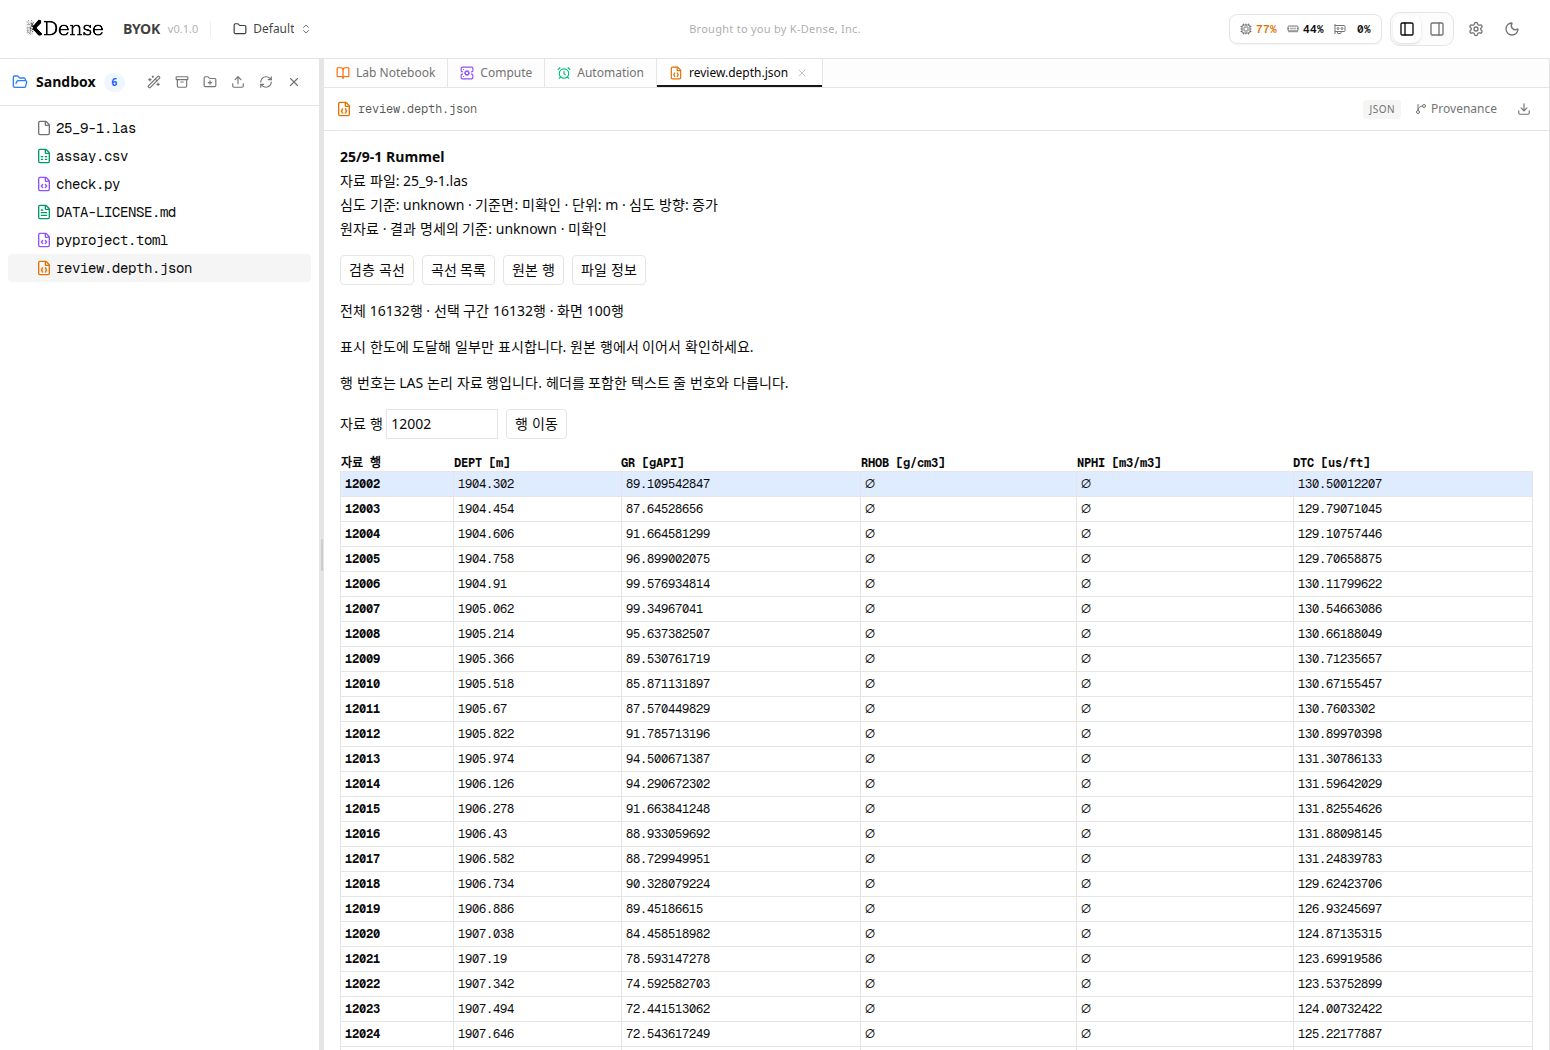
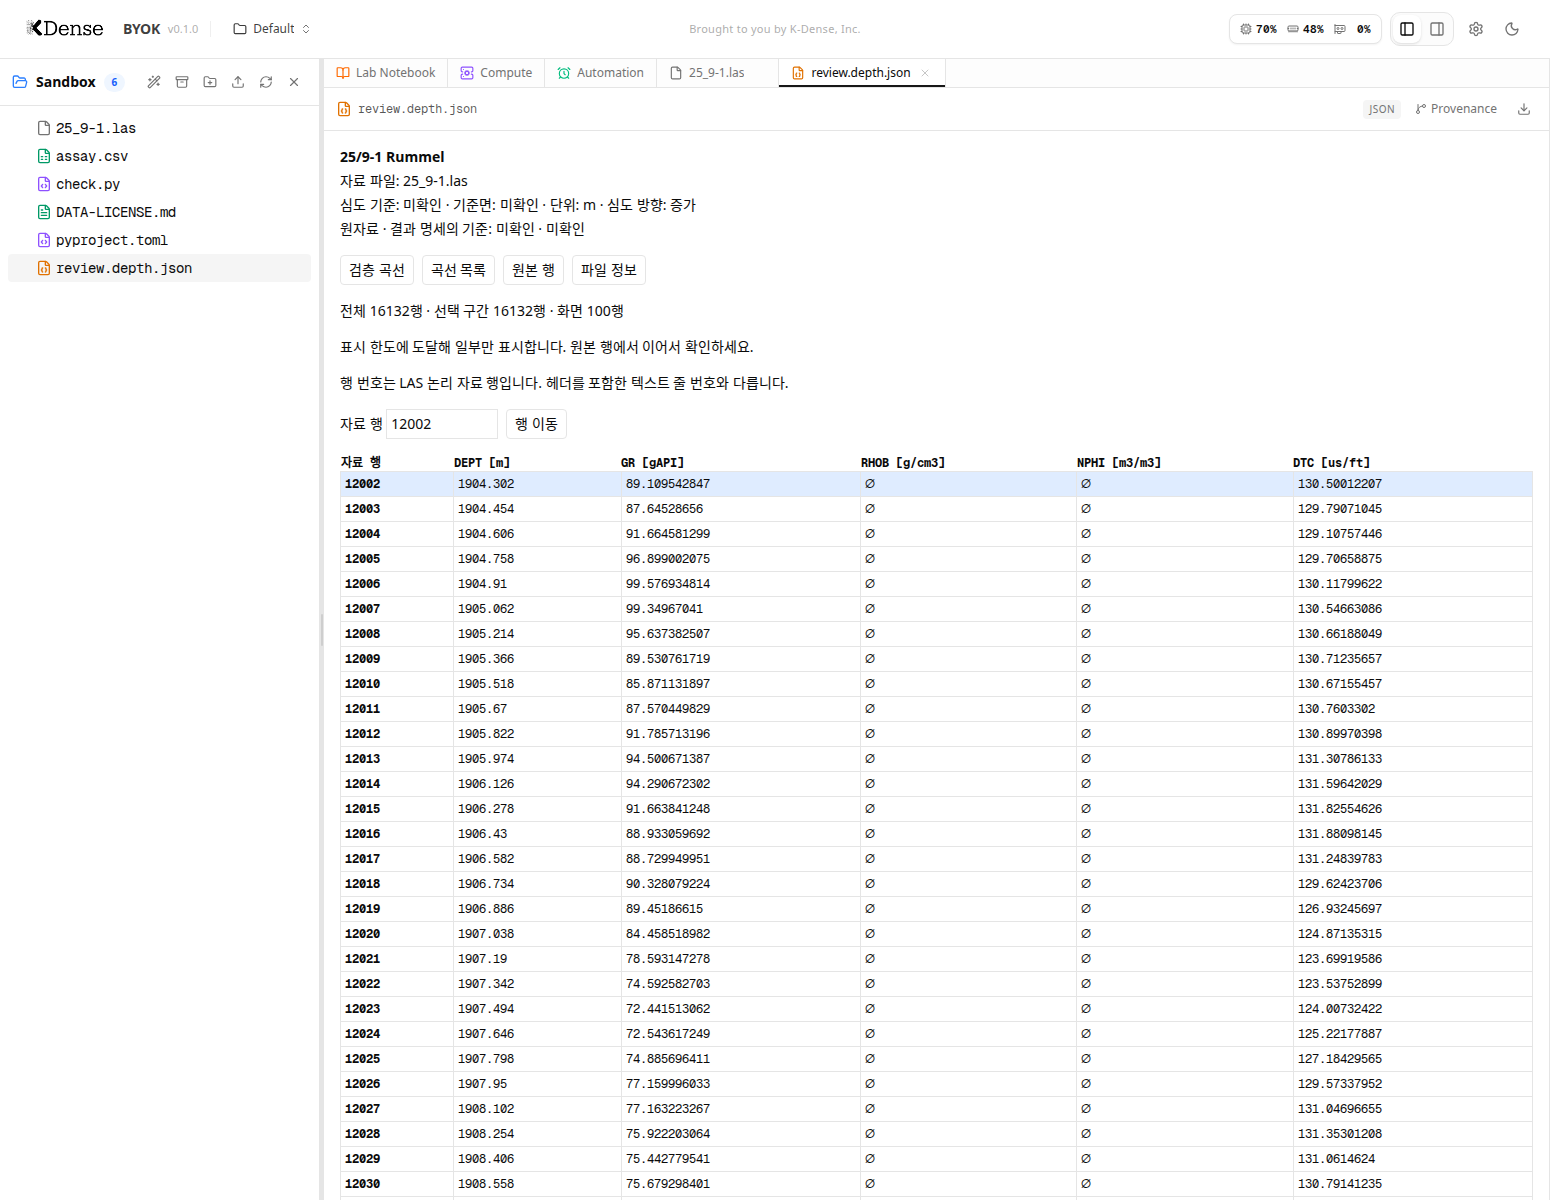
Finalize verified well and table results and correct typed fixture

diff --git a/web/src/geo/viewers/depth/viewer.test.tsx b/web/src/geo/viewers/depth/viewer.test.tsx
@@ -5,7 +5,7 @@ import { curvePath, singletonSamples, DepthTracks, FLAG_STYLE } from "./tracks";
 import type { DepthWindow } from "../../contracts/depth";
 import { apiFetch } from "@/lib/projects";
 vi.mock("@/lib/projects", () => ({ apiFetch: vi.fn(), API_BASE: "", getActiveProjectId: () => "default" }));
-const data = { schemaVersion: "geo-series/v1", path: "well.las", well: "Test", run: "1", version: "2.0", nullValue: -999.25, depth: { mnemonic: "DEPT", unit: "M", basis: "unknown", direction: "increasing" }, curves: [{ column: 0, mnemonic: "DEPT", originalMnemonic: "DEPT", unit: "M", finiteCount: 2, nullCount: 0 }, { column: 1, mnemonic: "GR", originalMnemonic: "GR", unit: "API", finiteCount: 1, nullCount: 1 }], selectedColumns: [1], sourceRows: 2, matchedRows: 2, displayedRows: 2, sampled: false, truncated: false, rows: [{ row: 1, depth: 100, values: [0], breakBefore: true }, { row: 2, depth: 101, values: [null], breakBefore: false }], nextRow: null, issues: [], method: "exact" };
+const data: DepthWindow = { fingerprint: "fixture", wrapped: false, schemaVersion: "geo-series/v1", path: "well.las", well: "Test", run: "1", version: "2.0", nullValue: -999.25, depth: { column: 0, mnemonic: "DEPT", unit: "M", basis: "unknown", direction: "increasing" }, curves: [{ column: 0, mnemonic: "DEPT", originalMnemonic: "DEPT", unit: "M", description: "Index", min: 100, max: 101, finiteCount: 2, nullCount: 0 }, { column: 1, mnemonic: "GR", originalMnemonic: "GR", unit: "API", description: "Gamma ray", min: 0, max: 0, finiteCount: 1, nullCount: 1 }], selectedColumns: [1], sourceRows: 2, matchedRows: 2, displayedRows: 2, sampled: false, truncated: false, rows: [{ row: 1, depth: 100, values: [0], breakBefore: true }, { row: 2, depth: 101, values: [null], breakBefore: false }], nextRow: null, issues: [], method: "exact" };
 beforeEach(() => vi.mocked(apiFetch).mockReset());
 const response = (body: unknown) => ({ ok: true, json: async () => body }) as Response;
 describe("LAS depth viewer", () => {
@@ -17,7 +17,7 @@ describe("LAS depth viewer", () => {
     const rows = [{ row: 1, depth: 100, values: [null], breakBefore: true }, { row: 2, depth: 101, values: [999], breakBefore: false }, { row: 3, depth: 102, values: [null], breakBefore: false }];
     expect(singletonSamples(rows, 0).map(r => r.row)).toEqual([2]);
     const onRow = vi.fn();
-    render(<DepthTracks data={{ ...data, rows } as DepthWindow} flags={[]} onRow={onRow} />);
+    render(<DepthTracks data={{ ...data, rows }} flags={[]} onRow={onRow} />);
     fireEvent.click(screen.getByTestId("singleton-1-2"));
     expect(onRow).toHaveBeenCalledWith(2);
   });

diff --git a/docs/tasks/gaid-well-tables.md b/docs/tasks/gaid-well-tables.md
@@ -1,7 +1,7 @@
 ---
 format: 1
 status: active
-updated: 2026-10-11T05:32:39Z
+updated: 2026-10-11T05:47:21Z
[1 lines of base64/hex data omitted]
 branch: task/gaid-well-tables
 target: main
@@ -44,14 +44,16 @@ Verified facts from the hub (2026-10-11):
 - Focused LAS checks: `node --test geo/tests/well.test.mjs` passed (9 Python known-answer cases); backend depth 4 tests after shared-header-basis check, frontend depth 5 tests after reader fixes, backend/frontend typechecks passed. Shared header-basis reuse was then added and the depth API tests passed again.
 - FORCE concordance: 4,841,277-byte source, 16,132 LAS rows; 15,743 uniquely matched reference rows, seven curves exact values and null masks (max difference 0, no null-mask disagreements). Header STOP discrepancy 0.1128047 m is preserved. Output checks/force-concordance.json under external task work.
 - Real Chromium application check: opened FORCE LAS without bulk text fetch; applied 1800–2400 m window; manifest spike link reached logical row 12002 with project-scoped data/code links. Korean screenshots external under task checks, copied into canonical report figures. Constructed flags test UI only, not scientific QC.
-- Pending parent glue/docs/reader fixes are intentionally still local (git diff/status). Do not lose them or publish during the child’s final check: that would make the child integrate another parent tip and repeat full checks. Once child ready is actually published, save these reviewed paths, then task complete the child and verify the combined tree. The prepared table-option imports become resolvable when the child is integrated.
-- Table child gaid-well-tables--tables (writer 8b4d426a-82dc-444e-9347-60354a8ffce4) has delivered its package and is running the final serial whole check (task finish, VITEST_MAX_WORKERS=1; started about 2026-10-11 05:19 UTC). Earlier failures and environment correction are recorded in the child document. Its local status ready is written before checks and is not published completion; wait for the actual completion notice/remote ready. Parent optional table UI wrapper/routes/docs are prepared but not yet verified together. Do not alter child-owned files until completion/integration.
+- Table child is published ready and merged locally through 3bdaf71; current application snapshot ebbe2e0 includes its 13 focused tests. First `task complete` combined check passed backend 1,593 tests (11 skipped), frontend 905 tests, geo/environment checks, but production build found missing fields in a new parent test fixture. Fixed by giving it the full DepthWindow type and fields, not by an unsafe cast.
+- After that fix: `cd web && npx tsc --noEmit --incremental false` passed; depth/table-option 7 UI tests passed; `node geo/tests/production-smoke.mjs` passed start/stop/restart in a clean data home. Final source/report snapshot is ready for the required CLI check retry.
+- Combined real-browser smoke passed: explicit table overlay/suggestions, expected overlap/gap, `<0.01` retained, original file bytes unchanged, return to ordinary table; LAS depth-window and exact row 12002/source/code links rechecked. Current Korean screenshots and all four registered output hashes verified.
 - Direct checks authorized by hub/user ("제안대로 하자.") while .env.example snapshot policy is fixed. Routed request env-sample-jobs-gaid-well-tables consumed and reported. No paid model runs.
 ## Next steps
-1. On the child completion notice, reread this document and git status, then complete/integrate the table child once ready; save prepared parent glue before integration, then run integrated focused/API/UI/type checks and a table browser smoke.
-2. Use VITEST_MAX_WORKERS=1 for final whole checks. A global value of 4 overrides backend fileParallelism=false normalization and causes shared-test-root races; child rejected that verification and restarted with 1. No assertions/deadlines/tests are changed. Finalize canonical report evidence, run final task finish checks, remove regenerable build caches after the last check, and wait for the hub completion report. Final main integration/cleanup are not yet done for the full LAS+tables scope.
+1. Save final report/fixture correction and rerun `VITEST_MAX_WORKERS=1 task complete gaid-well-tables--tables`. Do not resume/restart the child: it is already ready; fix the current parent in place. This runs the final checked integration.
+2. After child completion, update only this task document with the full-check receipt, run `VITEST_MAX_WORKERS=1 task finish`, remove listed regenerable caches after the last check, and give the hub's final completion report once. No deployment or model qualification is in scope.
 ## Failed approaches
-- 2026-10-11: first task job run (dependency install + focused type/numerical/API/UI checks) failed before receipt creation: "job snapshot blocked: forbidden path .env.example". The inherited path was not read or changed. task/jobs.py validates all ls-tree paths before git archive (even export-ignore cannot resolve it). Do not bypass task CLI with manual long-running jobs. Hub needs to resolve the tool/project compatibility. No tests have run.
+- First parent `task complete` failed only at production TypeScript checking because the new singleton UI test fixture omitted fingerprint/wrapped and curve metadata. Fixed the fixture to match the contract; frontend typecheck, 7 affected UI tests and standalone production smoke then passed. Original full check evidence: /home/seongin3/.local/state/backbone/check-logs/beb99bb9d216ecd9/check-w3bfbkvw.log.
+- 2026-10-11: first task job run (dependency install + focused type/numerical/API/UI checks) failed before receipt creation: "job snapshot blocked: forbidden path .env.example". The inherited path was not read or changed. task/jobs.py validates all ls-tree paths before git archive (even export-ignore cannot resolve it). Do not bypass task CLI with manual long-running jobs. At that point no tests had run. Hub subsequently authorized direct checks; current results are above.
 - Focused command after unblock: task job run -- bash -lc 'set -e; npm --prefix server ci --no-audit --no-fund; npm --prefix web ci --no-audit --no-fund; uv sync --frozen --project server/src/helpers --python 3.12.14 --python-preference only-managed; npm --prefix server run typecheck; cd web; npx tsc --noEmit; npm test -- src/geo/viewers/depth/viewer.test.tsx; cd ../server; npx vitest run test/geo-depth.test.ts; cd ..; node --test geo/tests/well.test.mjs'
 
 ## Notes and decisions

diff --git a/reports/2026-10-11-gaid-well-tables/index.md b/reports/2026-10-11-gaid-well-tables/index.md
@@ -47,11 +47,21 @@ supersedes:
 | 실제 헤더 불일치 | 마지막 심도와 헤더의 차이 0.1128047 m를 그대로 보고합니다. |
 | 원본 행 연결 | 검토 표시를 눌러 12,002번째 논리 자료 행으로 이동했습니다. 시험용 표시는 과학적 QC 결과가 아닙니다. |
 
+![검토 표시에서 이동한 정확한 원본 행](figures/02-source-row.png)
+
+그림 2. 시험용 급변 표시에서 12,002번째 자료 행으로 이동했습니다. 볼 것: 원본 행 번호와 원래 단위의 값입니다. 이 표시는 화면 연결 시험을 위해 만든 것이며, 실제 과학적 이상을 판정한 결과가 아닙니다. 검층 자료 출처와 권리는 그림 1과 같습니다.
+
+![시추공 표의 구간 점검](figures/03-table.png)
+
+그림 3. 합성 표에서 구간 중복 1건과 공백 1건을 찾았습니다. 볼 것: 원본 행 위치와 그대로 남긴 검출한계 미만 값입니다. 점검 전후 원본 파일의 바이트가 같음을 확인했습니다.
+
 ## 4. 검증
 
 - 과학적 수치 확인: 같은 제공자의 두 내보내기를 대응시켰습니다. 독립 측정의 진실성이나 지질 해석을 입증한 것은 아닙니다.
 - 수치 회귀검사: NULL과 0 구분, 줄바꿈 자료, 중복·누락·역전 심도, 미확인 단위, 극값·결측 경계 보존과 표시 한도를 확인했습니다.
-- 소프트웨어·통합 검사: 최종 검사 결과 기록 전입니다.
+- 백엔드 회귀검사: 1,593개 통과, 11개 건너뜀입니다. 이 중 2개는 기관 네트워크에서 어휘 자료를 받지 못하는 기존 시험입니다. 시험을 건너뛴 것을 통과로 세지 않았습니다.
+- 프런트엔드 회귀검사: 905개가 통과했습니다. 이후 배포용 빌드에서 발견한 시험 자료의 타입 누락을 수정했고, 타입 검사와 관련 화면 시험 7개가 다시 통과했습니다.
+- 실제 브라우저: 검층 열기, 심도 범위 선택, 원본 행 이동, 표 역할 지정과 구간 점검, 일반 표로 돌아가기, 원본 바이트 보존을 확인했습니다. 새 데이터 공간에서 배포용 앱을 시작·종료·재시작하는 검사도 통과했습니다.
 
 ## 5. 한계
 
@@ -68,10 +78,11 @@ supersedes:
 
 ## 7. 대체되었거나 실패한 시도
 
-<details><summary>펼치기 — 3건</summary>
+<details><summary>펼치기 — 4건</summary>
 
 - 처음 사용한 파서가 심도 열의 NULL을 값으로 남기고 일부 줄바꿈 자료를 잘못 나눴습니다. 헤더에 선언된 열 수로 자료를 읽도록 수정하고 회귀검사로 확인했습니다.
 - 화면 점검에서 결측 사이의 단일 값이 보이지 않는 문제와 잘못된 심도 범위를 바로 수정하지 못하는 문제를 찾았습니다. 단일 값을 점으로 표시하고 입력 단계에서 범위를 확인하도록 수정했습니다.
+- 배포용 빌드의 타입 검사에서 새 시험 자료에 필드가 빠진 것을 찾았습니다. 실제 계약에 맞게 필드를 채웠고, 느슨한 타입 변환으로 우회하지 않았습니다.
 - 검사 스냅샷 도구가 기존 환경설정 예시 파일 때문에 중단됐습니다. 사용자가 승인한 임시 절차에 따라 작업 경로에서 직접 검사했습니다. 해당 예시 파일은 변경하지 않았습니다.
 
 </details>
@@ -80,6 +91,25 @@ supersedes:
 
 <details><summary>펼치기 — 실행 방법, 원본, 해시, 커밋</summary>
 
-작성 시점: 2026-10-11. 최종 검증과 커밋 정보는 통합 후 기록합니다.
+| 항목 | 위치와 근거 |
+|---|---|
+| 앱 코드 확인 기준 | `ebbe2e0856a771c0cc024ef61bed7178e5833738` (표 하위 작업 포함). 이후 변경은 시험 자료의 타입 명시와 보고서입니다. 최종 통합은 이 보고서의 Git 이력과 작업 완료 기록으로 확인합니다. |
+| 사용법·계약·한도 | `docs/geo/well-tables.md`, `web/src/geo/contracts/depth.ts`, `web/src/geo/contracts/tables.ts` |
+| 검층 읽기·보기 | `server/src/geo/well/`, `server/src/geo/routes/depth.ts`, `web/src/geo/viewers/depth/` |
+| 표 역할·점검 | `server/src/geo/tables/`, `server/src/geo/routes/tables.ts`, `web/src/geo/viewers/tables/` |
+| 원자료 이름 | `configs/inputs.toml`의 `force2020_welllogs`: `pc74:~/assets/force2020-welllogs/c8d01ee9/` |
[1 lines of base64/hex data omitted]
+| 실자료 수치 확인 | `uv run --frozen --project server/src/helpers python geo/tests/force-concordance.py --output <external-output>` |
[1 lines of base64/hex data omitted]
+| 생성 자료 검사 | `node --test geo/tests/well.test.mjs` (Python 9개), `server/test/geo-depth.test.ts` (4개), 표 검사 13개 |
+| 전체 회귀검사 | `VITEST_MAX_WORKERS=1`로 `scripts/check` 실행. 서버는 원래 순차 실행이며 이 설정은 프런트엔드도 순차 실행합니다. 테스트나 제한 시간을 바꾸지 않았습니다. |
+| 화면 검사 | `web/src/geo/viewers/depth/viewer.test.tsx`, `web/src/geo/viewers/tables/table-option.test.tsx`; 수정 후 7개 통과 |
+| 실제 브라우저 재현 | `pc74:~/data/geoaidesk/work/gaid-well-tables/{depth,table}-browser-smoke.py`; 격리된 `browser/projects/default/sandbox/` 자료 사용, 유료 모델 호출 없음 |
+| 화면 원본 | `pc74:~/data/geoaidesk/work/gaid-well-tables/checks/`의 `depth-window-ko.png`, `depth-exact-row-ko.png`, `table-checks-ko.png`; 해시는 `results/registry.toml`에 기록 |
+| 배포용 시작·재시작 검사 | `node geo/tests/production-smoke.mjs` 통과. `pc74:~/data/geoaidesk/work/gaid-well-tables/checks/production-smoke.log` |
+| 실행 환경 | PC74 Ubuntu 24.04, Node 24.21.0, uv 관리 Python 3.12.14 |
+| 배포 | 실행 중인 서비스의 배포나 모델 실행은 하지 않았습니다. |
+
+작성 시점: 2026-10-11. 검토 상태는 아직 사용자 채택을 뜻하지 않습니다.
 
 </details>
